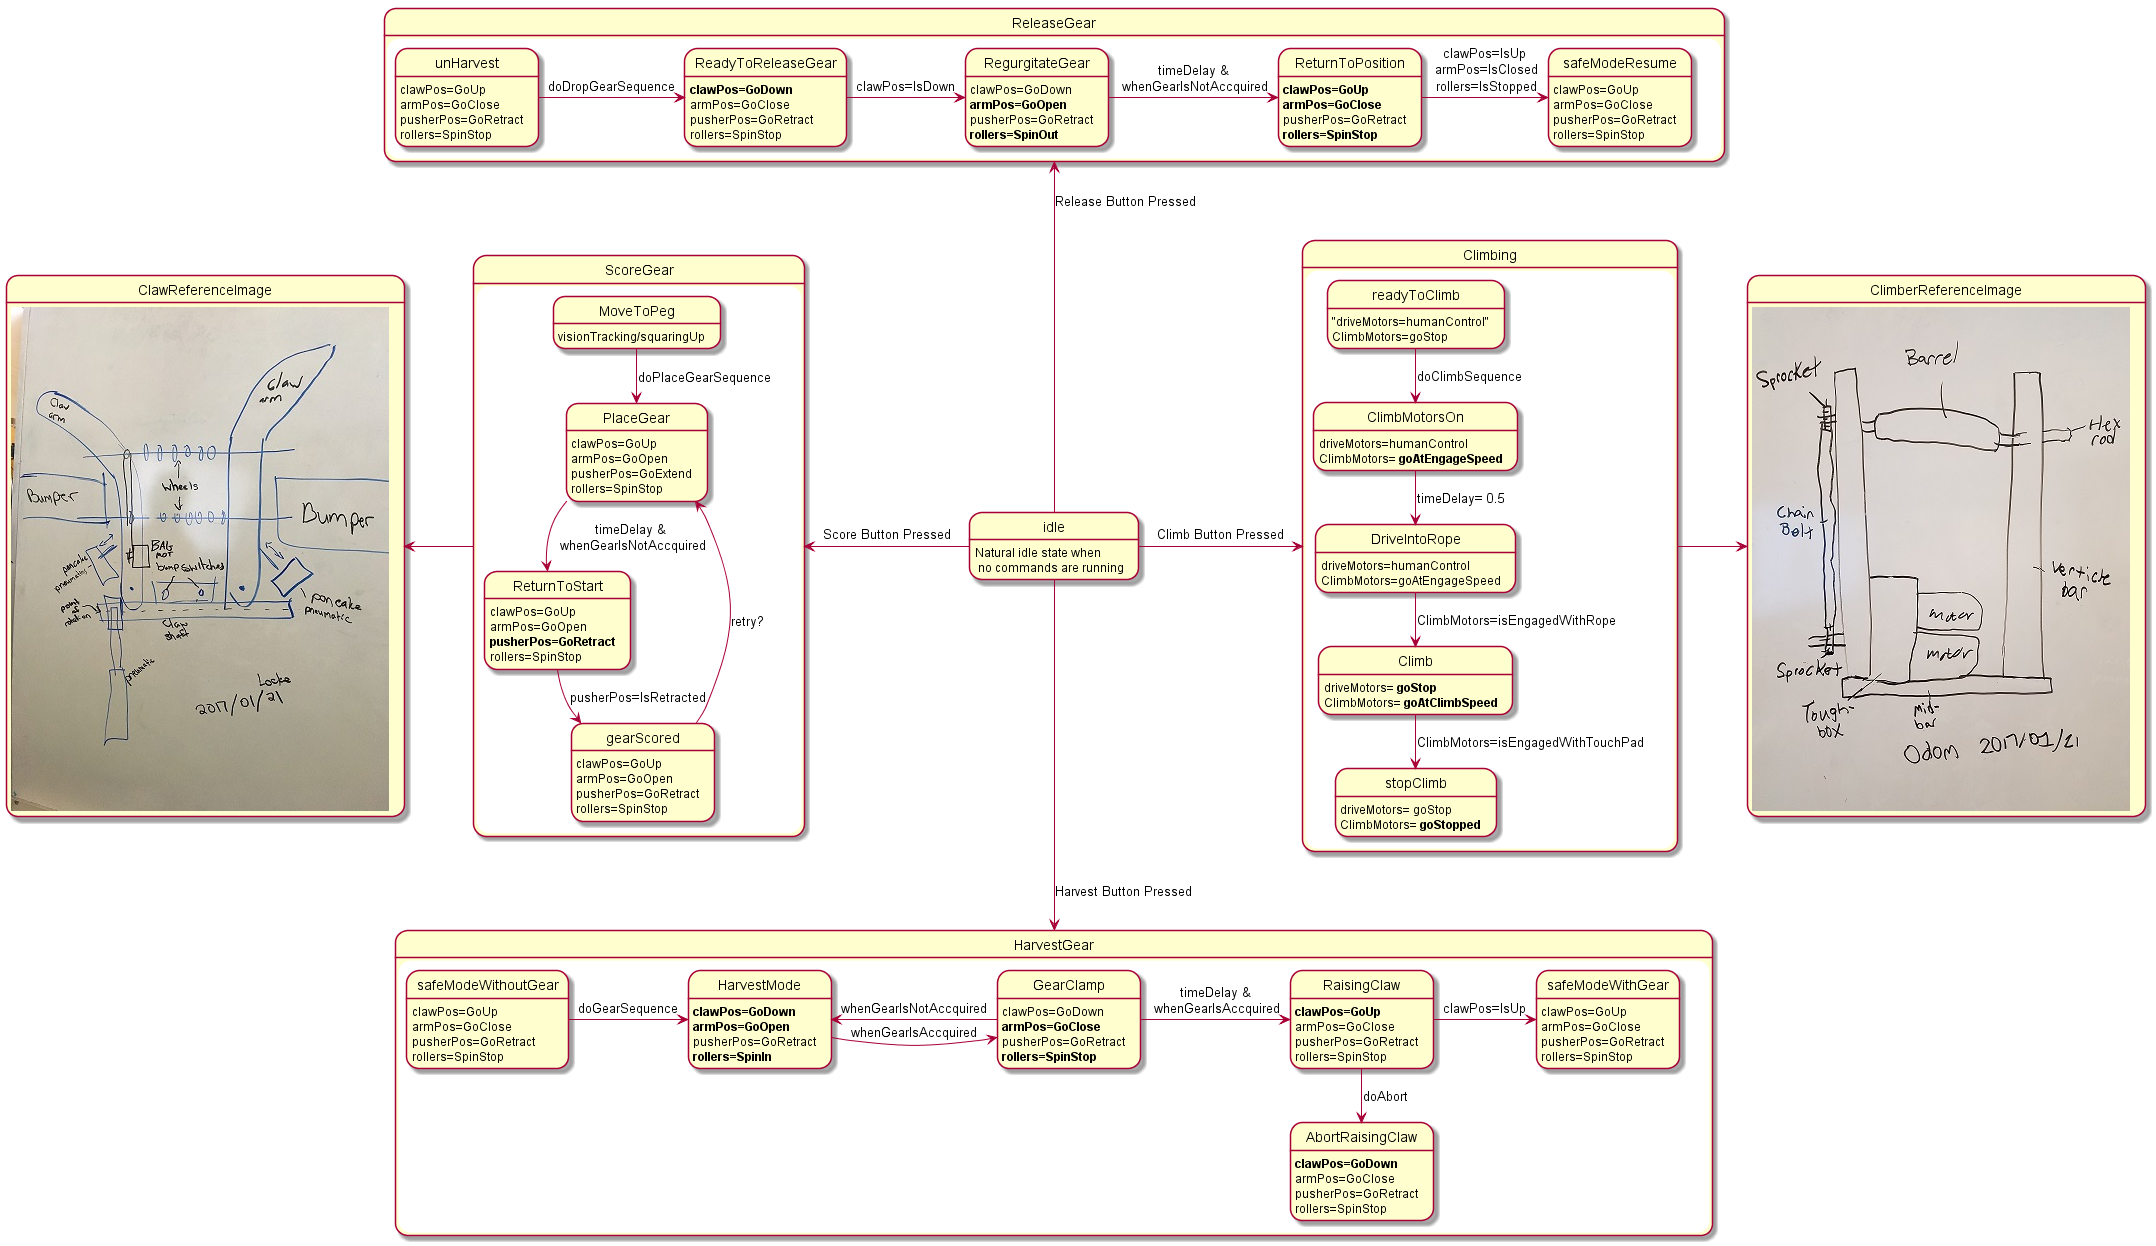
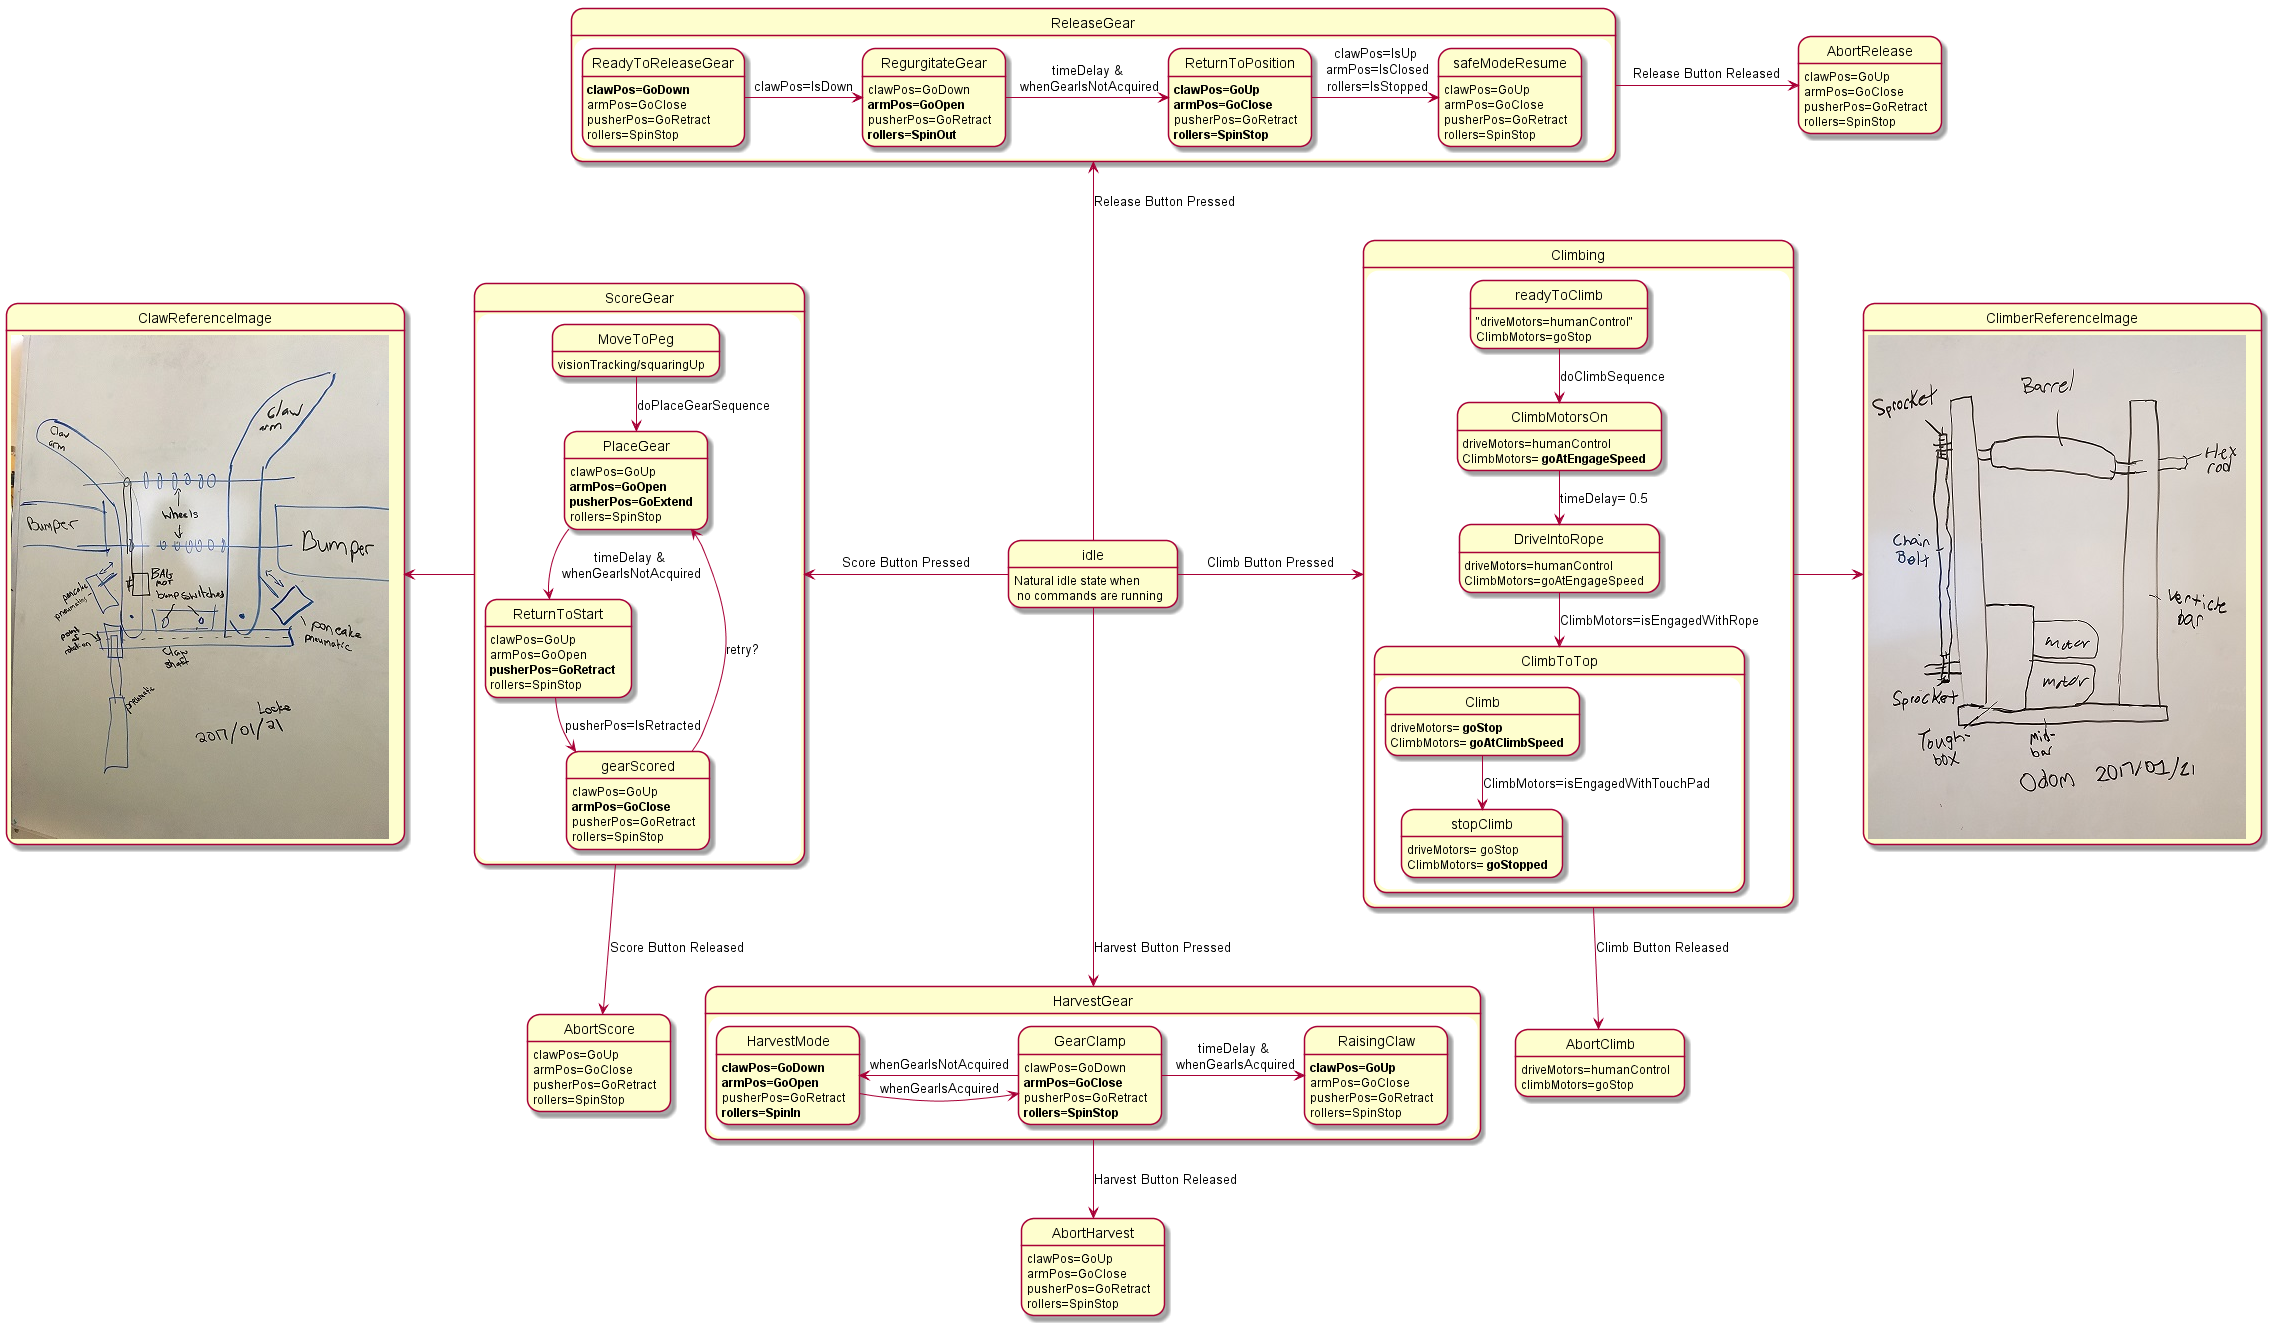
Updated the state diagram. Mocked the implementation for the climber.

Changed region(s): [[0.0, 0.0, 1.0, 1.0], [0.0932, 0.549, 0.1243, 0.5795]]

diff --git a/src/org/usfirst/frc/team340/robot/subsystems/Climber.java b/src/org/usfirst/frc/team340/robot/subsystems/Climber.java
@@ -1,20 +1,31 @@
 package org.usfirst.frc.team340.robot.subsystems;
 
+import org.usfirst.frc.team340.robot.RobotMap;
+
+import edu.wpi.first.wpilibj.Talon;
 import edu.wpi.first.wpilibj.command.Subsystem;
 
 /**
  *
  */
 public class Climber extends Subsystem {
+	
+	private static final double ENGAGEMENT_SPEED = 0.5;
+	private static final double CLIMB_SPEED = 0.75;
+	private Talon drum;
+	
+	public Climber() {
+		drum = new Talon(RobotMap.CLIMBER_DRUM_PORT);
+	}
 
     // Put methods for controlling this subsystem
     // here. Call these from Commands.
 	public void goAtEngagementSpeed(){
-		
+		goToSpeed(ENGAGEMENT_SPEED);
 	}
 	
-	public void goToSpeed(double speed){
-		
+	private void goToSpeed(double speed){
+		drum.set(speed);
 	}
 	
 	public boolean isEngagedWithRope(){
@@ -22,7 +33,7 @@ public class Climber extends Subsystem {
 	}
 	
 	public void goAtClimbSpeed(){
-		
+		goToSpeed(CLIMB_SPEED);
 	}
 	
 	public boolean isEngagedWithTouchPad(){
@@ -30,11 +41,11 @@ public class Climber extends Subsystem {
 	}
 	
 	public void goStopped(){
-		
+		goToSpeed(0); //zero is no movement therefore stop
 	}
 	
 	public boolean isStopped(){
-		return false;
+		return drum.get() ==0;
 	}
 
     public void initDefaultCommand() {

diff --git a/src/org/usfirst/frc/team340/robot/RobotMap.java b/src/org/usfirst/frc/team340/robot/RobotMap.java
@@ -15,6 +15,7 @@ public class RobotMap {
     public static final int DROP_SOLENOID_CHANNEL = 3;
     public static final int ARM_SOLENOID_CHANNEL = 4;
     public static final int CLAW_SOLENOID_CHANNEL = 5;
-	public static final double CLIMB_MOTORS_ENGAGEMENT_SPIN_UP_TIME = 0.5;
+    public static final int CLIMBER_DRUM_PORT = 6;
     
+	public static final double CLIMB_MOTORS_ENGAGEMENT_SPIN_UP_TIME = 0.5;
 }
